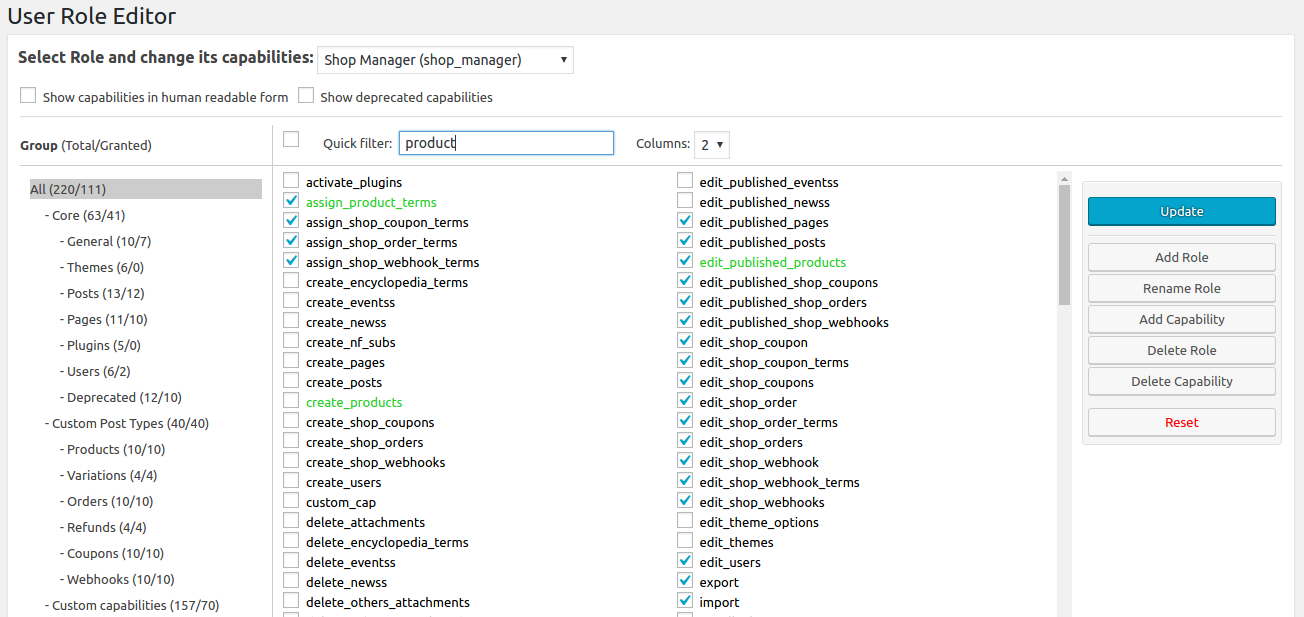
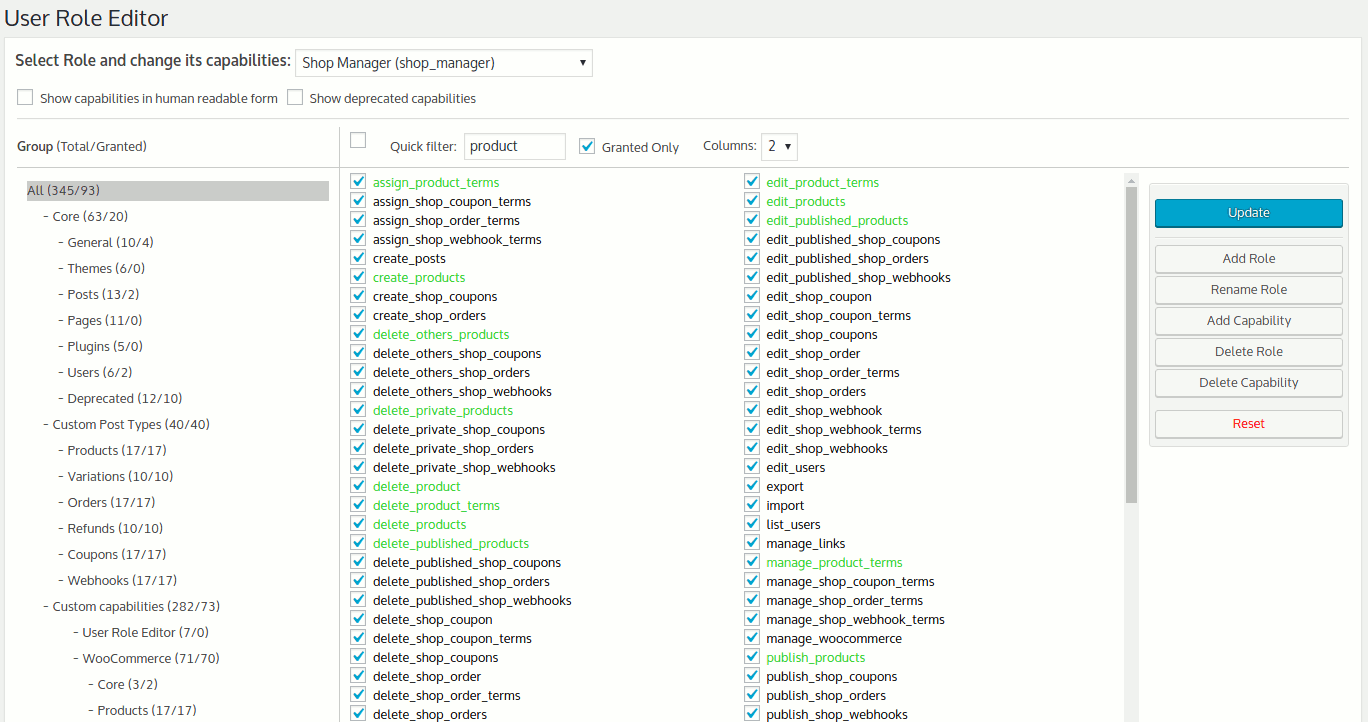
Обновление плагинов

Changed region(s): [[0.0, 0.0, 0.7055, 1.0], [0.7975, 0.2464, 1.0, 0.7083]]

diff --git a/wp-content/plugins/user-role-editor/js/ure-js.js b/wp-content/plugins/user-role-editor/js/ure-js.js
@@ -45,6 +45,7 @@ jQuery(function ($) {
     ure_count_caps_in_groups();
     ure_sizes_update();
     $('#ure_select_all_caps').click(ure_auto_select_caps);
+    $('#granted_only').click(ure_show_granted_caps_only);
     $('#ure_caps_groups_list').selectable({
         selected: function( event, ui ) {
             // do not allow multiple selection
@@ -53,22 +54,6 @@ jQuery(function ($) {
         }
     });            
     ure_select_selectable_element($('#ure_caps_groups_list'), $('#ure_caps_group_all'));
-
-    if (typeof ure_current_role === 'undefined' || 'administrator' !== ure_current_role) {
-        $('#ure_unselect_all').button({
-            label: ure_data.unselect_all
-        }).click(function (event) {
-            event.preventDefault();
-            ure_select_all(0);
-        });
-
-        $('#ure_reverse_selection').button({
-            label: ure_data.reverse
-        }).click(function (event) {
-            event.preventDefault();
-            ure_select_all(-1);
-        });
-    }
 
     $('#ure_update_role').button({
         label: ure_data.update
@@ -427,40 +412,6 @@ function ure_turn_it_back(control) {
 // end of ure_turn_it_back()
 
 
-/**
- * Manipulate mass capability checkboxes selection
- * @param {bool} selected
- * @returns {none}
- */
-function ure_select_all(selected) {
-
-    var qfilter = jQuery('#quick_filter').val();
-    var form = document.getElementById('ure_form');
-    for (i = 0; i < form.elements.length; i++) {
-        el = form.elements[i];
-        if (el.type !== 'checkbox') {
-            continue;
-        }
-        if (el.name === 'ure_caps_readable' || el.name === 'ure_show_deprecated_caps' ||
-                el.name === 'ure_apply_to_all' || el.disabled ||
-                el.name.substr(0, 8) === 'wp_role_') {
-            continue;
-        }
-        if (qfilter !== '' && !form.elements[i].parentNode.ure_tag) {
-            continue;
-        }
-        if (selected >= 0) {
-            form.elements[i].checked = selected;
-        } else {
-            form.elements[i].checked = !form.elements[i].checked;
-        }
-
-    }
-
-}
-// end of ure_select_all()
-
-
 function ure_apply_selection(cb_id) {
     var qfilter = jQuery('#quick_filter').val();
     var parent_div = jQuery('#ure_cap_div_'+ cb_id);
@@ -601,6 +552,7 @@ function ure_caps_refresh(group) {
         ure_caps_refresh_for_group(group_id);
     }    
     ure_change_caps_columns_quant();
+    jQuery('#granted_only').attr('checked', false);
 } 
 
 
@@ -680,3 +632,32 @@ function ure_sizes_update() {
 jQuery(window).resize(function() {
    ure_sizes_update(); 
 });
+
+
+function ure_show_granted_caps_only() {
+    var show_deprecated = jQuery('#ure_show_deprecated_caps').attr('checked');
+    var hide_flag = jQuery('#granted_only').attr('checked');
+    jQuery('.ure-cap-div').each(function () {
+        var cap_div = jQuery(this);
+        if (!cap_div.hasClass(ure_obj.selected_group)) {    // apply to the currently selected group only
+            return;
+        }
+        var cap_id = cap_div.attr('id').substr(12);        
+        var granted = jQuery('#'+ cap_id).attr('checked');
+        if (granted) {
+            return;
+        }
+        if (hide_flag) {
+            if (!cap_div.hasClass('hidden')) {
+                cap_div.addClass('hidden');
+            }
+        } else {
+            if (cap_div.hasClass('deprecated') && !show_deprecated) {
+                return;
+            }
+            if (cap_div.hasClass('hidden')) {
+                cap_div.removeClass('hidden');
+            }
+        }
+    });    
+}

diff --git a/wp-content/plugins/user-role-editor/includes/classes/view.php b/wp-content/plugins/user-role-editor/includes/classes/view.php
@@ -265,7 +265,9 @@ class URE_View {
                     </div>
                     <div class="ure-table-cell ure-caps-option nowrap">
                         <?php esc_html_e('Quick filter:', 'user-role-editor'); ?>&nbsp;
-                        <input type="text" id="quick_filter" name="quick_filter" value="" size="20" onkeyup="ure_filter_capabilities(this.value);" />
+                        <input type="text" id="quick_filter" name="quick_filter" value="" size="10" onkeyup="ure_filter_capabilities(this.value);" />&nbsp;&nbsp;&nbsp;
+                        <input type="checkbox" id="granted_only" name="granted_only" />
+                        <label for="granted_only"><?php esc_html_e('Granted Only', 'user-role-editor'); ?></label>&nbsp;
                     </div>                    
                     <div class="ure-table-cell ure-caps-option nowrap">
                         <?php esc_html_e('Columns:', 'user-role-editor');?>

diff --git a/wp-content/plugins/user-role-editor/user-role-editor.php b/wp-content/plugins/user-role-editor/user-role-editor.php
@@ -3,7 +3,7 @@
 Plugin Name: User Role Editor
 Plugin URI: https://www.role-editor.com
 Description: Change/add/delete WordPress user roles and capabilities.
-Version: 4.29
+Version: 4.30
 Author: Vladimir Garagulya
 Author URI: https://www.role-editor.com
 Text Domain: ure
@@ -23,7 +23,7 @@ if (defined('URE_PLUGIN_URL')) {
    wp_die('It seems that other version of User Role Editor is active. Please deactivate it before use this version');
 }
 
-define('URE_VERSION', '4.29');
+define('URE_VERSION', '4.30');
 define('URE_PLUGIN_URL', plugin_dir_url(__FILE__));
 define('URE_PLUGIN_DIR', plugin_dir_path(__FILE__));
 define('URE_PLUGIN_BASE_NAME', plugin_basename(__FILE__));

diff --git a/wp-content/plugins/multisite-store-viewer/admin/logo-network-settings.php b/wp-content/plugins/multisite-store-viewer/admin/logo-network-settings.php
@@ -56,13 +56,10 @@ else{
    			<td width="30%" style="text-align:center;"><b><?php _e('Logo', 'ced-multisite-list')?></b></td>
 		</tr>
 		
-		Gebruik de routeplanner om ons te bereiken met openbaar vervoer. (<a href="https://www.delijn.be/nl/routeplanner">https://www.delijn.be/nl/routeplanner/</a>)
-		
    		<?php 
    		if(isset($ced_sites))
    		{
    			$checkbox_value =  get_site_option('hidesite');
-   			print_r($checkbox_value);
    			foreach($ced_sites as $key=>$val)
    			{
    				$blog_id = $val['blog_id'];

diff --git a/wp-content/plugins/multisite-store-viewer/ced-multisite-list.php b/wp-content/plugins/multisite-store-viewer/ced-multisite-list.php
@@ -3,7 +3,7 @@
  * Plugin Name: Multisite Store Viewer
  * Plugin URI: http://cedcommerce.com
  * Description: This plugin list all the sites of a multisite wordpress on a single page.
- * Version: 1.0.6
+ * Version: 1.0.7
  * Author: CedCommerce
  * Author URI: http://cedcommerce.com
  * Requires at least: 3.5
